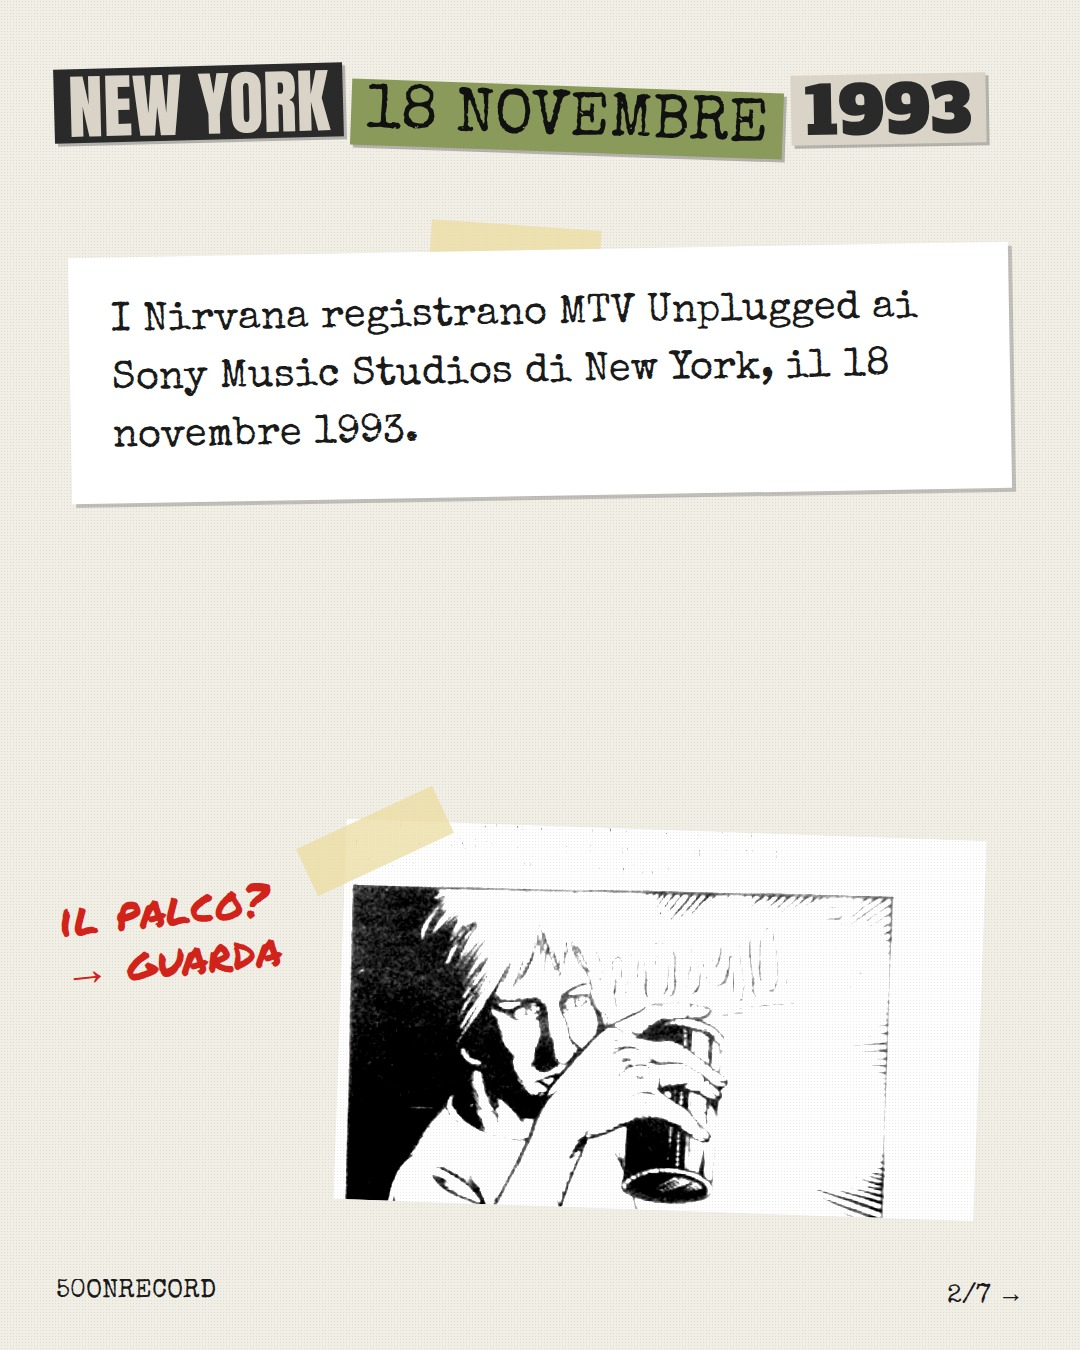
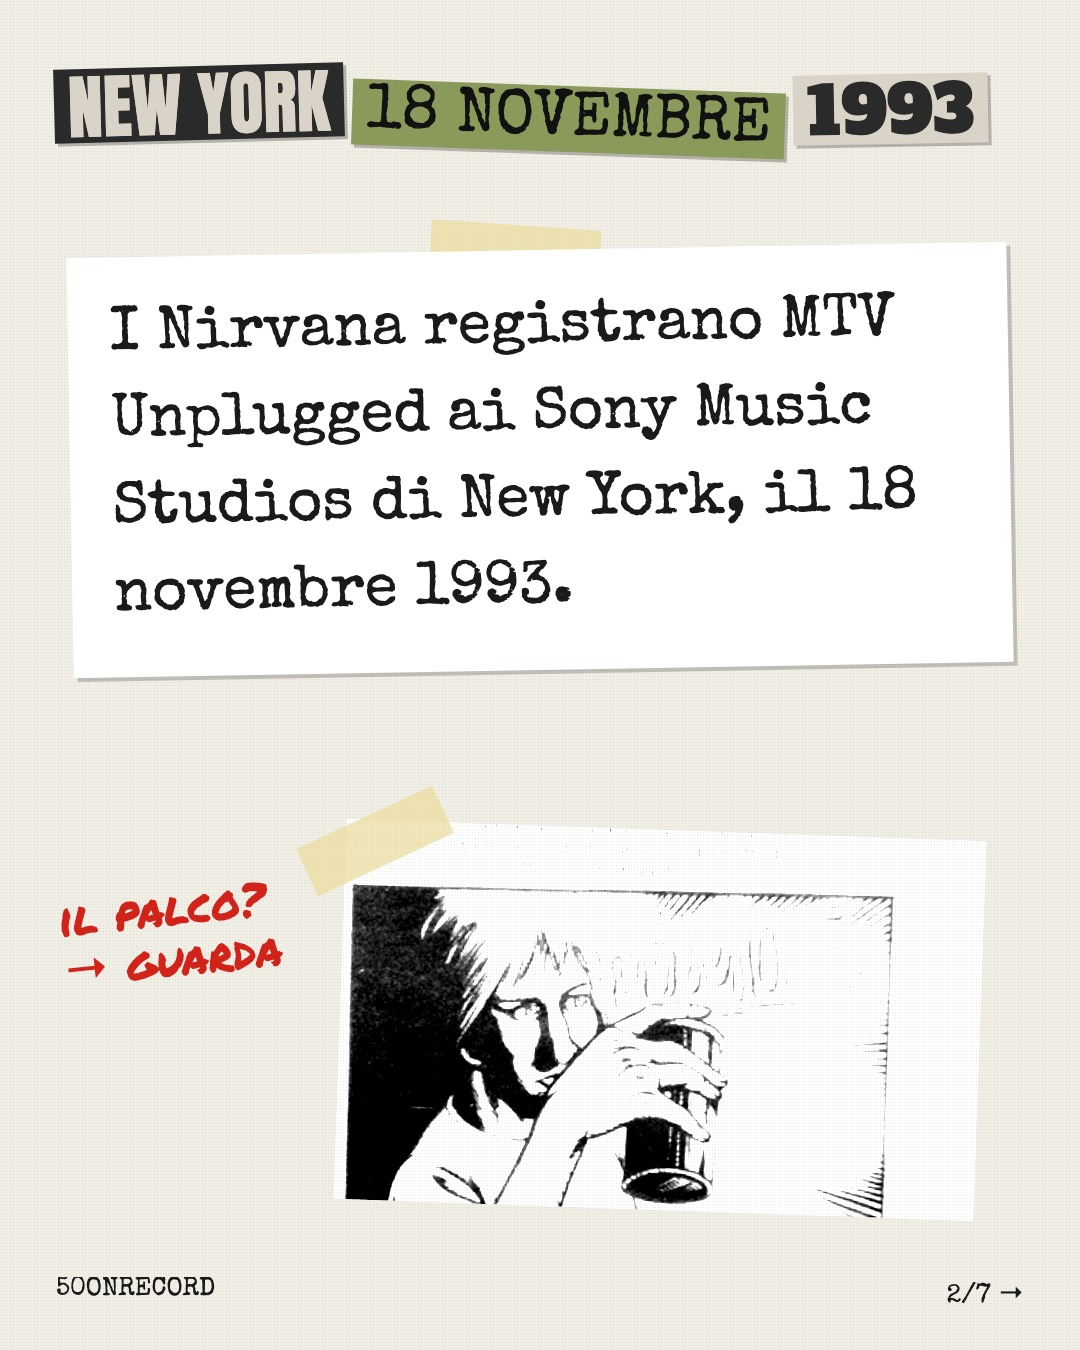
testi nei riquadri bianchi più grandi; storie su un brano singolo, non su concerti interi

diff --git a/tests/test_render.py b/tests/test_render.py
@@ -163,3 +163,38 @@ def test_relative_output_dir_renders(tmp_path, story_dict, monkeypatch):
     paths = render_story(story, _photos_for(story), issue=1, out_dir=Path("incoming/x/slides"))
     assert len(paths) == len(story.slides)
     assert all(p.exists() for p in paths)
+
+
+def _note_font_sizes(html):
+    import os
+    from playwright.sync_api import sync_playwright
+    from onrecord.render import _GROW_NOTES_JS, _OVERFLOW_JS
+    with sync_playwright() as pw:
+        browser = pw.chromium.launch(channel=os.environ.get("ONRECORD_BROWSER_CHANNEL") or None)
+        try:
+            tab = browser.new_page(viewport={"width": 1080, "height": 1350})
+            tab.set_content(html)
+            tab.evaluate(_GROW_NOTES_JS, 60)
+            sizes = tab.evaluate("[...document.querySelectorAll('.note')].map(e => parseFloat(e.style.fontSize))")
+            bad = tab.evaluate(_OVERFLOW_JS, 10)
+            return sizes, bad
+        finally:
+            browser.close()
+
+
+def test_notes_grow_to_fill_their_box_without_overflowing():
+    html = ("<style>.note{position:absolute;width:900px;font-family:serif;line-height:1.45;overflow:hidden}</style>"
+            '<div class="note fit" style="top:0;max-height:500px;font-size:40px">Testo breve.</div>'
+            '<div class="note fit" style="top:600px;max-height:330px;font-size:40px">' + "parola " * 30 + "</div>")
+    (short, long_), bad = _note_font_sizes(html)
+    assert 40 < short <= 60    # il testo corto si ingrandisce, ma non oltre il tetto
+    assert 40 <= long_ < short  # il testo lungo cresce meno (o per nulla)
+    assert bad == []           # nulla esce dal proprio riquadro
+
+
+def test_note_that_overflows_at_base_size_is_not_shrunk_or_hidden():
+    html = ("<style>.note{position:absolute;width:900px;font-family:serif;line-height:1.45;overflow:hidden}</style>"
+            '<div class="note fit" style="top:0;max-height:100px;font-size:40px">' + "parola " * 60 + "</div>")
+    (size,), bad = _note_font_sizes(html)
+    assert size == 40          # non toccato: resta segnalato come overflow
+    assert bad

diff --git a/onrecord/render.py b/onrecord/render.py
@@ -33,6 +33,27 @@ _OVERFLOW_JS = """
 """
 
 
+# I testi nei riquadri bianchi si ingrandiscono finché stanno nel riquadro (tetto: NOTE_MAX_FONT_PX),
+# per essere leggibili anche sul telefono. Un testo che già non sta alla misura di base non viene toccato
+# e resta segnalato dal controllo di overflow.
+NOTE_MAX_FONT_PX = 60
+_GROW_NOTES_JS = """
+(cap) => {
+  document.querySelectorAll('.note.fit').forEach(el => {
+    const fits = () => el.scrollHeight <= el.clientHeight + 12 && el.scrollWidth <= el.clientWidth + 12;
+    let size = parseFloat(getComputedStyle(el).fontSize);
+    if (!fits()) return;
+    while (size + 2 <= cap) {
+      el.style.fontSize = (size + 2) + 'px';
+      if (!fits()) { el.style.fontSize = size + 'px'; return; }
+      size += 2;
+    }
+    el.style.fontSize = size + 'px';
+  });
+}
+"""
+
+
 class SlideOverflowError(Exception):
     def __init__(self, slide_index: int, elements: List[str]):
         self.slide_index = slide_index
@@ -91,6 +112,7 @@ def render_story(story: Story, photos: Dict[int, List[Photo]], issue: int, out_d
             for i, page in enumerate(pages):
                 tab.goto(page.as_uri())
                 tab.evaluate("document.fonts.ready")
+                tab.evaluate(_GROW_NOTES_JS, NOTE_MAX_FONT_PX)
                 bad = tab.evaluate(_OVERFLOW_JS, FRAME_TOLERANCE)
                 if bad:
                     raise SlideOverflowError(i, bad)

diff --git a/.claude/skills/genera-carosello/SKILL.md b/.claude/skills/genera-carosello/SKILL.md
@@ -27,8 +27,13 @@ qui evita scarti, ma il cancello resta l'arbitro.
   preferisci `preferred_strand`, e se `need_italian` è `true` scegli un artista italiano.
 - Tra un carosello e il successivo che prepari in questa stessa esecuzione: artista e decennio diversi.
 - Mai una storia la cui chiave `artista|canzone|filone` è in `used_keys`.
-- Filoni: `palco` (concerti, momenti dal vivo), `studio` (nascita delle canzoni), `privata` (vita privata
-  **documentata**), `emozione` (significato, parole degli artisti).
+- Filoni: `palco` (un brano suonato dal vivo in un momento preciso), `studio` (nascita delle canzoni),
+  `privata` (vita privata **documentata**), `emozione` (significato, parole degli artisti).
+- **Ogni storia ruota attorno a UN brano singolo** (quello di `listen_track`), non a un concerto o a un evento
+  intero: un intero concerto offre poco materiale verificabile da raccontare bene in 6-8 slide, un brano ne
+  offre molto di più (come è nato, chi c'era, cosa è successo dopo, cosa significa). Nel filone `palco` racconta
+  l'esecuzione di quel brano in quel concerto, non la serata nel suo insieme (es. non "il Live Aid dei Queen",
+  ma "Radio Ga Ga al Live Aid").
 - Preferisci storie per cui esistono foto libere su Wikimedia Commons (cerca il nome dell'artista su Commons).
 
 ### 2. Ricerca e verifica (regola non negoziabile)
